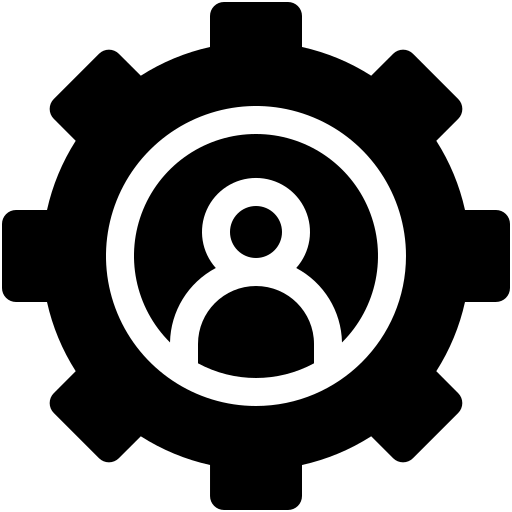
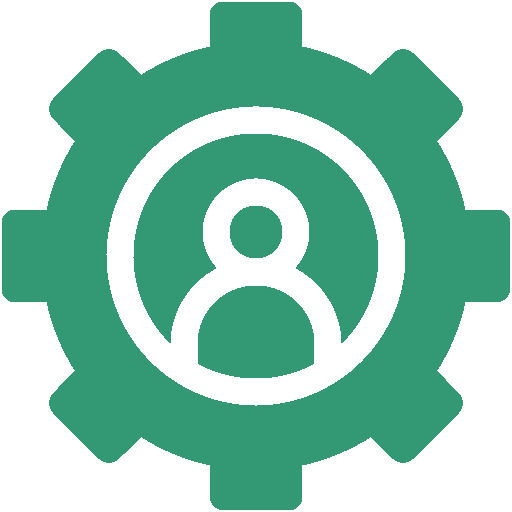
Lots of changes to Layout and Colours
Changed, skills section, colours, images

diff --git a/index.html b/index.html
@@ -22,27 +22,20 @@
                 <li><a href="#skills">Skills</a></li>
                 <li><a href="#projects">Projects</a></li>
                 <li><a href="#contact">Contact</a></li>
+                <li><a href="cvOld.pdf" target="_blank">CV</a></li>
             </ul>
         </nav>
-        <div class="mode_toggle">
-            Toggle
-        </div>
     </div>
 
     <section id="aboutSection">
-        <div class="about" id="home">  
-            <div class="aboutHeading"><h1>Jack Torcy</h1></div>
+        <div class="about" id="home">
+            <div class="aboutHeading">
+                <h1>Jack Torcy</h1>
+            </div>
             <div class="text">
                 <h2>Hello, I'm Jack.</h2>
                 <p>Aspiring back-end developer, I recently completed a 3-month bootcamp allowing me to create a
                     portfolio and projects. As well as Level 3 development knowledge.</p>
-            </div>
-            <div class="cv">
-                <form action="cvOld.pdf" target="_blank">
-                    <button type:"submit" class="container">
-                        View my CV
-                    </button>
-                </form>
             </div>
         </div>
 
@@ -50,31 +43,67 @@
     <section id="skillsSection">
         <div class="skills" id="skills">
             <div class="gridItem" id="htmlBubble">
-                <h2>HTML</h2>
+                <i class="icon fa-brands fa-html5"></i>
+                <div class="skillTxt">
+                    <h6>HTML5</h6>
+                    <p>I have used this for blah blah blah</p>
+                </div>
             </div>
             <div class="gridItem" id="cssBubble">
-                <h2>CSS</h2>
+                <i class="fa-brands fa-css3-alt"></i>
+                <div class="skillTxt">
+                    <h6>HTML5</h6>
+                    <p>I have used this for blah blah blah</p>
+                </div>
             </div>
             <div class="gridItem" id="jsBubble">
-                <h2>JavaScript</h2>
+                <i class="fa-brands fa-js"></i>
+                <div class="skillTxt">
+                    <h6>HTML5</h6>
+                    <p>I have used this for blah blah blah</p>
+                </div>
             </div>
             <div class="gridItem" id="pythonBubble">
-                <h2>Python</h2>
+                <i class="fa-brands fa-python"></i>
+                <div class="skillTxt">
+                    <h6>HTML5</h6>
+                    <p>I have used this for blah blah blah</p>
+                </div>
             </div>
             <div class="gridItem" id="skillsBubble">
-                <h2>Skills</h2>
+                <i class="fa-solid fa-circle-user"></i>
+                <div class="skillTxt">
+                    <h6>HTML5</h6>
+                    <p>I have used this for blah blah blah</p>
+                </div>
             </div>
             <div class="gridItem" id="sqlBubble">
-                <h2>mySQL</h2>
+                <i class="fa-solid fa-database"></i>
+                <div class="skillTxt">
+                    <h6>HTML5</h6>
+                    <p>I have used this for blah blah blah</p>
+                </div>
             </div>
-            <div class="gridItem" id="mongoBubble">
-                <h2>MongoDB</h2>
+            <div class="gridItem" id="flaskBubble">
+                <i class="fa-solid fa-flask"></i>
+                <div class="skillTxt">
+                    <h6>HTML5</h6>
+                    <p>I have used this for blah blah blah</p>
+                </div>
             </div>
             <div class="gridItem" id="bootstrapBubble">
-                <h2>Bootstrap</h2>
+                <i class="fa-brands fa-bootstrap"></i>
+                <div class="skillTxt">
+                    <h6>HTML5</h6>
+                    <p>I have used this for blah blah blah</p>
+                </div>
             </div>
             <div class="gridItem" id="githubBubble">
-                <h2>Github</h2>
+                <i class="fa-brands fa-github"></i>
+                <div class="skillTxt">
+                    <h6>HTML5</h6>
+                    <p>I have used this for blah blah blah</p>
+                </div>
             </div>
         </div>
     </section>
@@ -85,8 +114,11 @@
                     <img src="https://picsum.photos/seed/cab/200/300" alt="placeholder image">
                 </div>
                 <div class="text">
-                    <h2>Project 1</h2>
-                    <p>description of project</p>
+                    <h2>Snake Game</h2>
+                    <p>HTML, CSS, JavaScript</p>
+                    <p>5 Days - 15 Hours</p>
+                    <p>Fully functioning retro snake game made in my first project week using knowledge gained on the
+                        course</p>
                 </div>
             </div>
             <div class="card" id="card2">
@@ -94,19 +126,25 @@
                     <img src="https://picsum.photos/seed/pop/200/300" alt="">
                 </div>
                 <div class="text">
-                    <h2>Project 2</h2>
-                    <p>description of project</p>
+                    <h2>Command Line Database</h2>
+                    <p>Python, Sqlite3</p>
+                    <p>2 Days - 6 Hours</p>
+                    <p>Set as the second project week's task, I made a CRUD command line database</p>
                 </div>
             </div>
-            <div class="card" id="card3">
+            <a class="card" target="_blank" href="https://filmflix-50dn.onrender.com">
                 <div class="image">
-                    <img src="https://picsum.photos/seed/hidsen/100/300" alt="">
+                    <img src="Images/proj3.PNG" alt="">
                 </div>
                 <div class="text">
-                    <h2>Project 3</h2>
-                    <p>description of project</p>
+                    <h2>Fullstack Database Website</h2>
+                    <p>HTML - Jinja - CSS - Bootstrap</p>
+                    <p>Python - Sqlite3 - Flask</p>
+                    <p>6 Days - 18 Hours</p>
+                    <p>As i finished the command line database quickly i moved on to develop a front end to the same
+                        database and made a full-stack application</p>
                 </div>
-            </div>
+            </a>
         </div>
     </div>
     <div class="footer"></div>

diff --git a/style.css b/style.css
@@ -3,9 +3,10 @@
 
 /* Colours light bg: #57bc90 Dark BG img colour:#0F1626  */
 
-html{
-    zoom:125%;
+html {
+    zoom: 125%;
 }
+
 * {
     font-family: 'Nunito', sans-serif;
     margin: 0;
@@ -17,9 +18,9 @@ body {
     background-image: url(Images/background.png);
     background-size: 100vw 100vh;
     background-repeat: no-repeat;
-    background-attachment: fixed; 
+    background-attachment: fixed;
     color: white;
-    overflow-x:hidden;
+    overflow-x: hidden;
 }
 
 /* NAVBAR */
@@ -58,7 +59,7 @@ body {
     color: white;
 }
 
-.mode_toggle {
+.navCV {
     display: flex;
     justify-content: center;
     align-items: center;
@@ -82,7 +83,7 @@ body {
     border: 0.25px black solid;
     overflow: hidden;
     /* background-image: url(Images/background2.jpg); */
-    background-color: hsla(159, 40%, 35%, 1);
+    background-color: #286d5d;
 }
 
 .about .text {
@@ -91,35 +92,6 @@ body {
 
 .about .text h2 {
     padding: 10px 0px;
-}
-
-.about .cv {
-    display: flex;
-    align-items: center;
-    justify-content: center;
-    padding: 15px;
-    padding-top: 50px;
-
-}
-
-.about .cv form {
-    width: 25%;
-}
-
-.about .cv .container {
-    display: flex;
-    flex-wrap: wrap;
-    height: 50px;
-    width: 100%;
-    /* background-color: hsla(135, 90%, 40%, 0.6); */
-    background-color: #49f19ace;
-    border-radius: 5px;
-    border: 1px black solid;
-    justify-content: center;
-    padding: 2px;
-    font-size: 30px;
-    cursor: pointer;
-    color: white;
 }
 
 .about .aboutHeading {
@@ -150,18 +122,49 @@ body {
     align-self: center;
     justify-self: center;
     display: flex;
+    margin: 10px;
     justify-content: center;
     align-items: center;
     border-radius: 10px;
-    border: 2px solid black;
-    height: 90%;
-    width: 90%;
-    background-color: #A3BBAD;
+    font-size: 90px;
+    color: #286d5d;
+    height: 85%;
+    width: 85%;
+    background-color: rgba(10, 55, 65, 1);
+    transition: 0.5s all ease;
+}
+
+.gridItem:hover {
+    color: white;
+    background-color: #286d5d;
+    height: 95%;
+    width: 95%;
+    margin: 0px;
+    transition: 0.5s all ease;
+    align-items: start;
+    font-size: 50px;
+    padding-top: 10px;
+}
+.skillTxt > h6{
+    font-size:15px;
+    display:none;
+}
+.gridItem:hover > .skillTxt > h6{
+    display:block;
+    transition: 0.5s all ease;
+}
+.skillTxt > p{
+    font-size: 12px;
+    display:none;
+}
+.gridItem:hover > .skillTxt > p{
+    display:block;
+    transition: 0.5s all ease;
 }
 
 #htmlBubble,
 #pythonBubble,
-#mongoBubble {
+#flaskBubble {
     justify-self: end;
 }
 
@@ -185,9 +188,11 @@ body {
 }
 
 .projects .card_container .card {
+    text-decoration: none;
+    color: white;
     display: grid;
     grid-template-rows: 60% 40%;
-    background-color: #A3BBAD;
+    background-color: #286d5d;
     width: 25%;
     height: 400px;
     border-radius: 20px;
@@ -214,10 +219,10 @@ body {
 }
 
 .ball {
-    position:absolute;
-    border-radius:100%;
+    position: absolute;
+    border-radius: 100%;
     opacity: 100%;
     z-index: -1;
     background-color: #8094c261;
-    margin:0px;
+    margin: 0px;
 }
